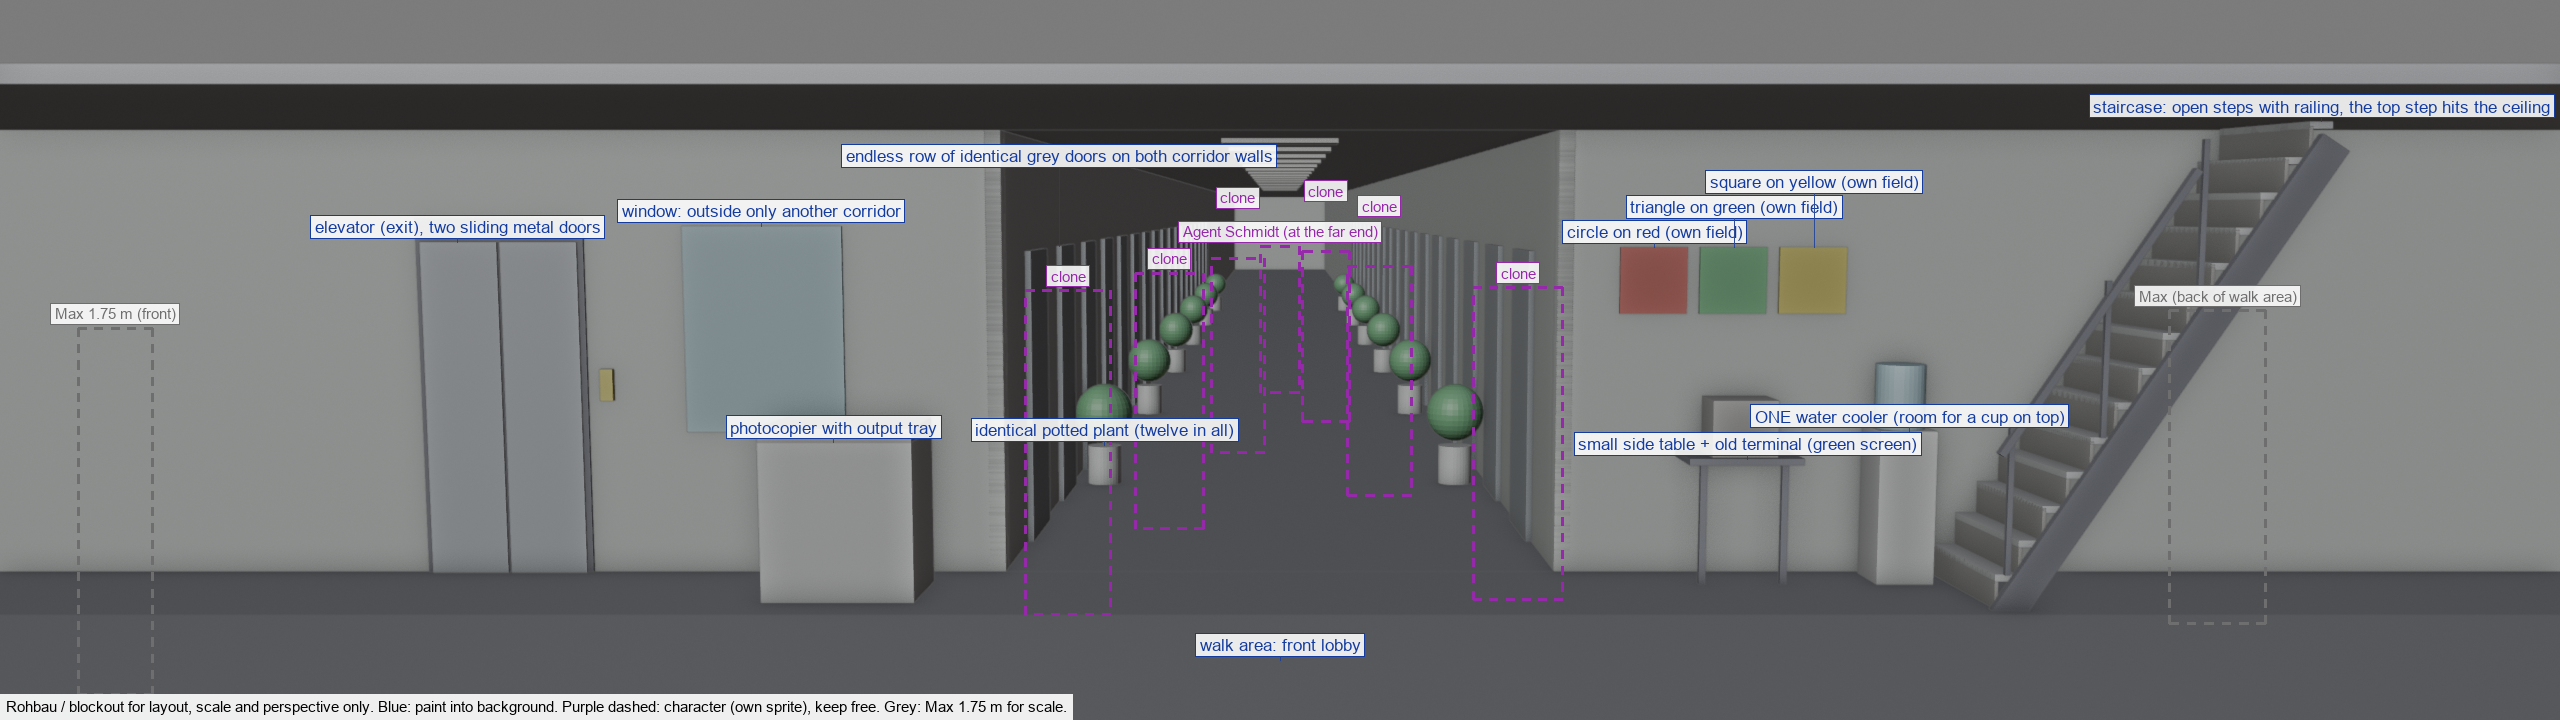
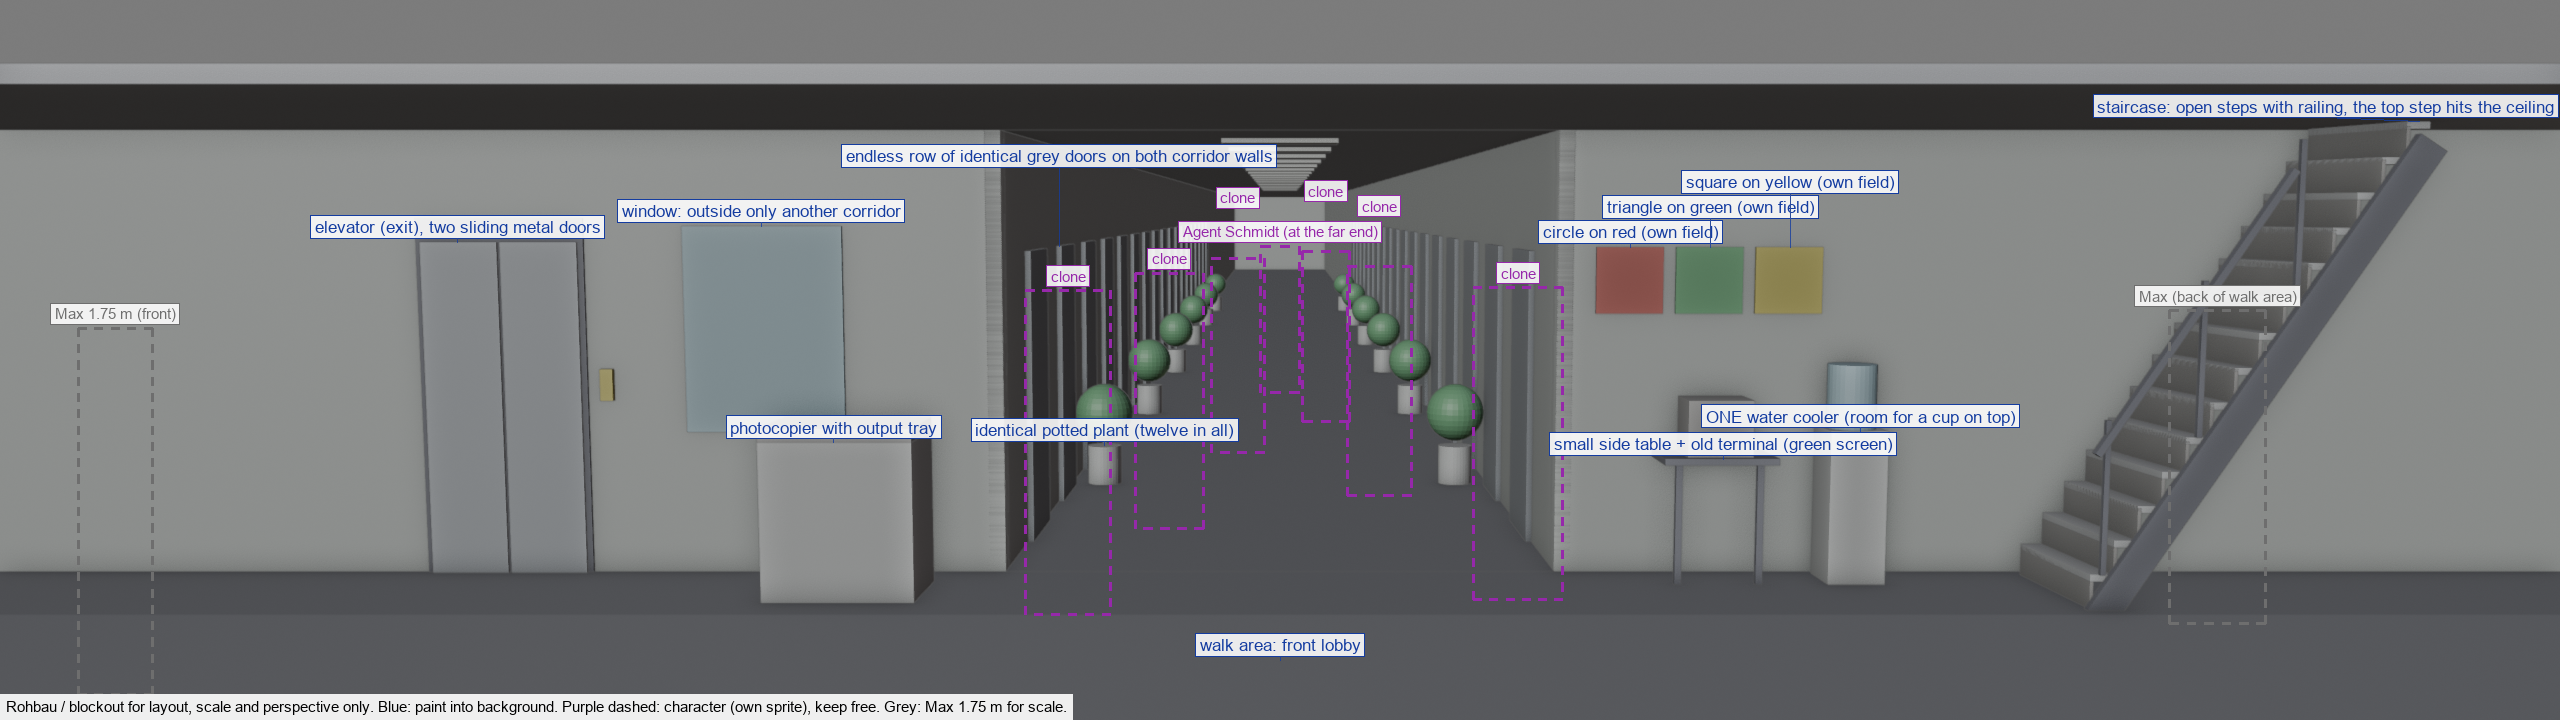
Welt 3: Büro 50 – Wasserspender mit Abstand zur Treppe (Rohbau)

Changed region(s): [[0.5938, 0.1222, 1.0, 0.825], [0.5938, 0.2444, 0.75, 0.4583], [0.7188, 0.4889, 0.75, 0.5194]]

diff --git a/tools/grafik_w3/rohbau_raeume.py b/tools/grafik_w3/rohbau_raeume.py
@@ -346,14 +346,14 @@ def buero():
     box(None, 3.4, 2.1, 0.9, 0.6, 0.08, z=0.95, col=MITTEL)
     # Vorraum rechts: Farbcode über dem Terminal, ein Wasserspender, Treppe in die Decke
     for i, (c, n_) in enumerate([(ROT, "circle on red"), (GRUEN, "triangle on green"), (GELB, "square on yellow")]):
-        box(f"{n_} (own field)", 8.35 + i * 0.5, Y0 - 0.03, 0.42, 0.03, 0.42, z=1.65, col=c)
-    for x in (8.6, 9.1):
+        box(f"{n_} (own field)", 8.2 + i * 0.5, Y0 - 0.03, 0.42, 0.03, 0.42, z=1.65, col=c)
+    for x in (8.45, 8.95):
         box(None, x, Y0 - 0.4, 0.04, 0.04, 0.75, col=DUNKEL)
-    box("small side table + old terminal (green screen)", 8.85, Y0 - 0.45, 0.7, 0.4, 0.04, z=0.75, col=DUNKEL)
-    box(None, 8.85, Y0 - 0.4, 0.4, 0.3, 0.35, z=0.79, col=MITTEL)
-    box("ONE water cooler (room for a cup on top)", 9.85, Y0 - 0.4, 0.35, 0.35, 0.95, col=HELL)
-    zyl(None, 9.85, Y0 - 0.22, 0.15, 0.4, z=0.95, col=GLAS)
-    treppe(10.2, Y0 - 1.05, 2.8)
+    box("small side table + old terminal (green screen)", 8.7, Y0 - 0.45, 0.7, 0.4, 0.04, z=0.75, col=DUNKEL)
+    box(None, 8.7, Y0 - 0.4, 0.4, 0.3, 0.35, z=0.79, col=MITTEL)
+    box("ONE water cooler (room for a cup on top)", 9.55, Y0 - 0.4, 0.35, 0.35, 0.95, col=HELL)
+    zyl(None, 9.55, Y0 - 0.22, 0.15, 0.4, z=0.95, col=GLAS)
+    treppe(10.75, Y0 - 1.05, 2.8)
     notiz("walk area: front lobby", 6.0, 0.6, 0.05)
     figur("Agent Schmidt (at the far end)", 6.0, 14.0, 1.85)
     for x, y in ((5.2, 4.5), (6.8, 6.0), (5.6, 8.5), (6.5, 11.0), (4.8, 1.8), (7.4, 2.2)):
